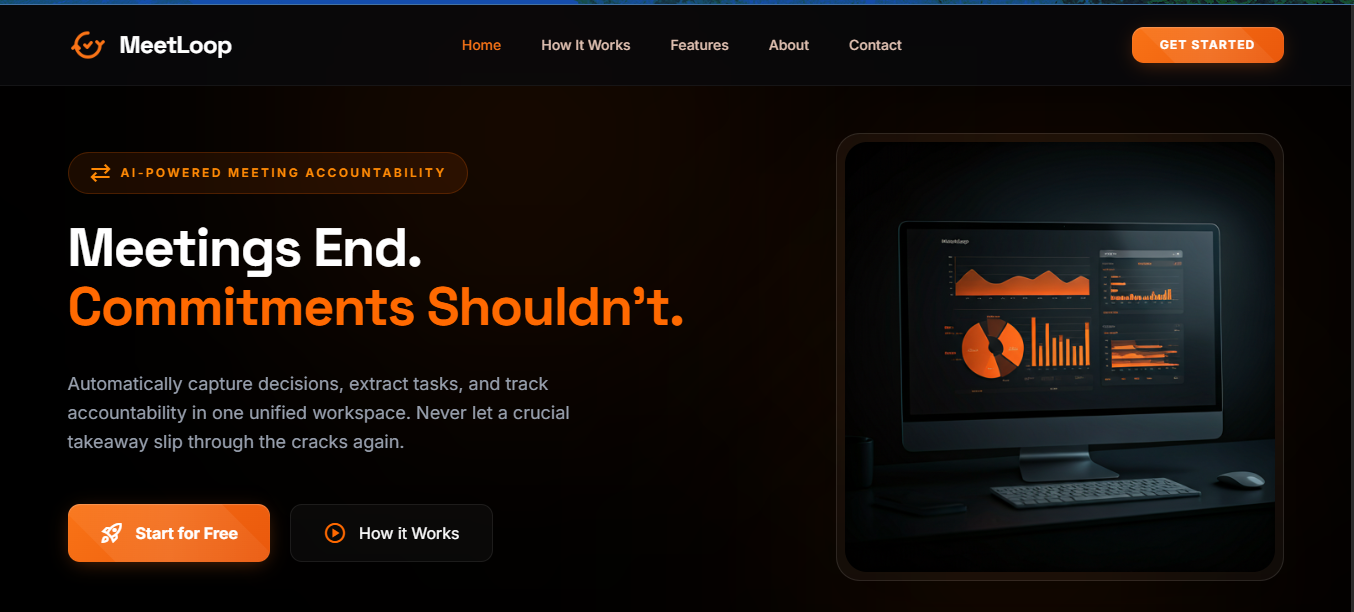
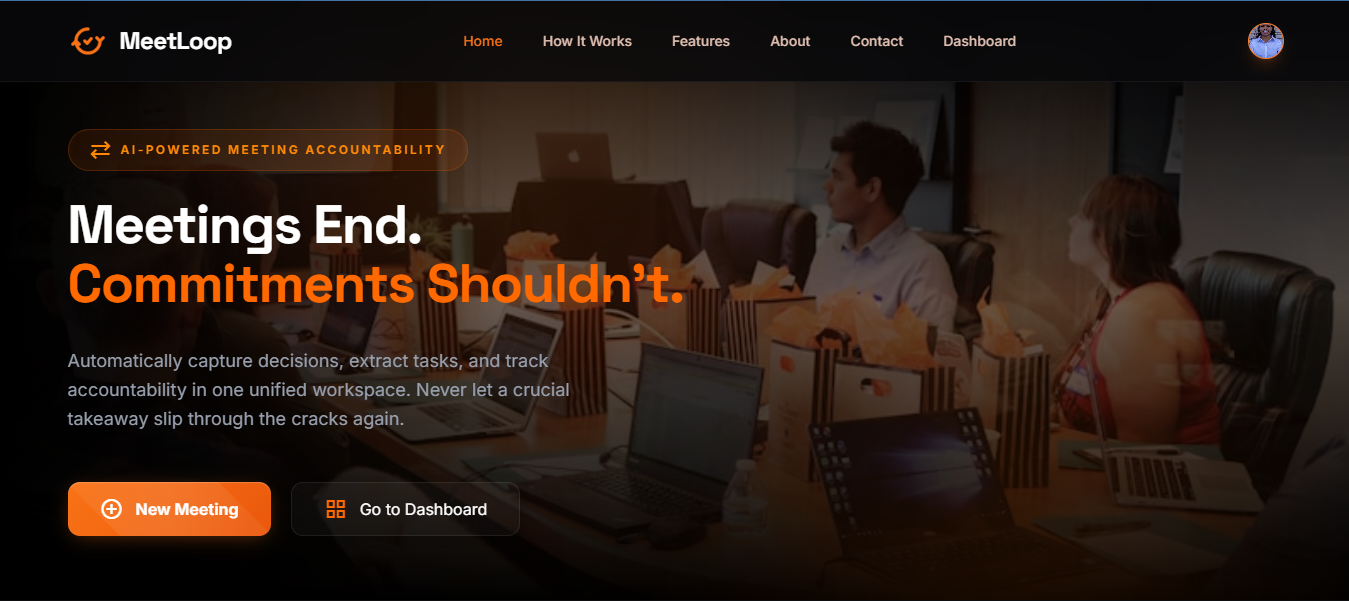
update herosection-bg image

diff --git a/client/src/pages/LandingPage.jsx b/client/src/pages/LandingPage.jsx
@@ -46,10 +46,23 @@ export default function LandingPage() {
       <Navbar />
 
       {/* Hero Section */}
-      <section className="relative overflow-hidden pt-24 pb-12 lg:pt-32 lg:pb-16">
+      <section className="relative overflow-hidden pt-24 pb-12 lg:pt-32 lg:pb-16 bg-black">
+        <div className="absolute inset-0 z-0 pointer-events-none">
+          <div
+            className="absolute inset-0 opacity-40 bg-cover bg-center bg-no-repeat"
+            style={{ backgroundImage: "url('/decision-log.png')" }}
+          ></div>
+
+          {/* Top and Bottom Fade (Eliminates harsh cutoffs) */}
+          <div className="absolute inset-0 bg-gradient-to-b from-black via-transparent to-black opacity-100"></div>
+
+          {/* Heavy Left Fade (Ensures text readability) */}
+          <div className="absolute inset-0 bg-gradient-to-r from-black via-black/10 to-transparent w-full lg:w-3/4"></div>
+        </div>
+
         {/* Glow Effects */}
-        <div className="absolute top-[-120px] left-[10%] lg:left-[20%] w-[300px] lg:w-[500px] h-[300px] lg:h-[500px] bg-orange-500/10 blur-[100px] lg:blur-[140px] rounded-full"></div>
-        <div className="absolute bottom-[-120px] right-[5%] lg:right-[10%] w-[250px] lg:w-[400px] h-[250px] lg:h-[400px] bg-orange-500/10 blur-[100px] lg:blur-[140px] rounded-full"></div>
+        <div className="absolute z-0 top-[-120px] left-[10%] lg:left-[20%] w-[300px] lg:w-[500px] h-[300px] lg:h-[500px] bg-orange-500/15 blur-[100px] lg:blur-[140px] rounded-full pointer-events-none"></div>
+        <div className="absolute z-0 bottom-[-120px] right-[5%] lg:right-[10%] w-[250px] lg:w-[400px] h-[250px] lg:h-[400px] bg-orange-500/15 blur-[100px] lg:blur-[140px] rounded-full pointer-events-none"></div>
 
         <div className="max-w-7xl mx-auto px-6 lg:px-8 relative z-10">
           <div className="grid grid-cols-1 lg:grid-cols-2 gap-12 lg:gap-12 items-center">
@@ -94,14 +107,6 @@ export default function LandingPage() {
                     </Link>
                   </>
                 )}
-              </div>
-            </div>
-
-            {/* RIGHT IMAGE */}
-            <div className="relative flex justify-center lg:justify-end animate-fade-in delay-200">
-              <div className="absolute w-[300px] lg:w-[450px] h-[300px] lg:h-[300px] bg-orange-500/10 blur-[80px] lg:blur-[120px] rounded-full"></div>
-              <div className="relative border border-white/10 rounded-2xl lg:rounded-3xl bg-white/[0.03] p-1.5 lg:p-2 backdrop-blur-xl shadow-2xl overflow-hidden transform hover:scale-[1.02] transition-transform duration-500">
-                <img src="/hero.png" alt="MeetLoop Dashboard" className="w-full max-w-[450px] h-auto max-h-[430px] object-contain rounded-[12px] lg:rounded-[22px] shadow-inner" />
               </div>
             </div>
           </div>
